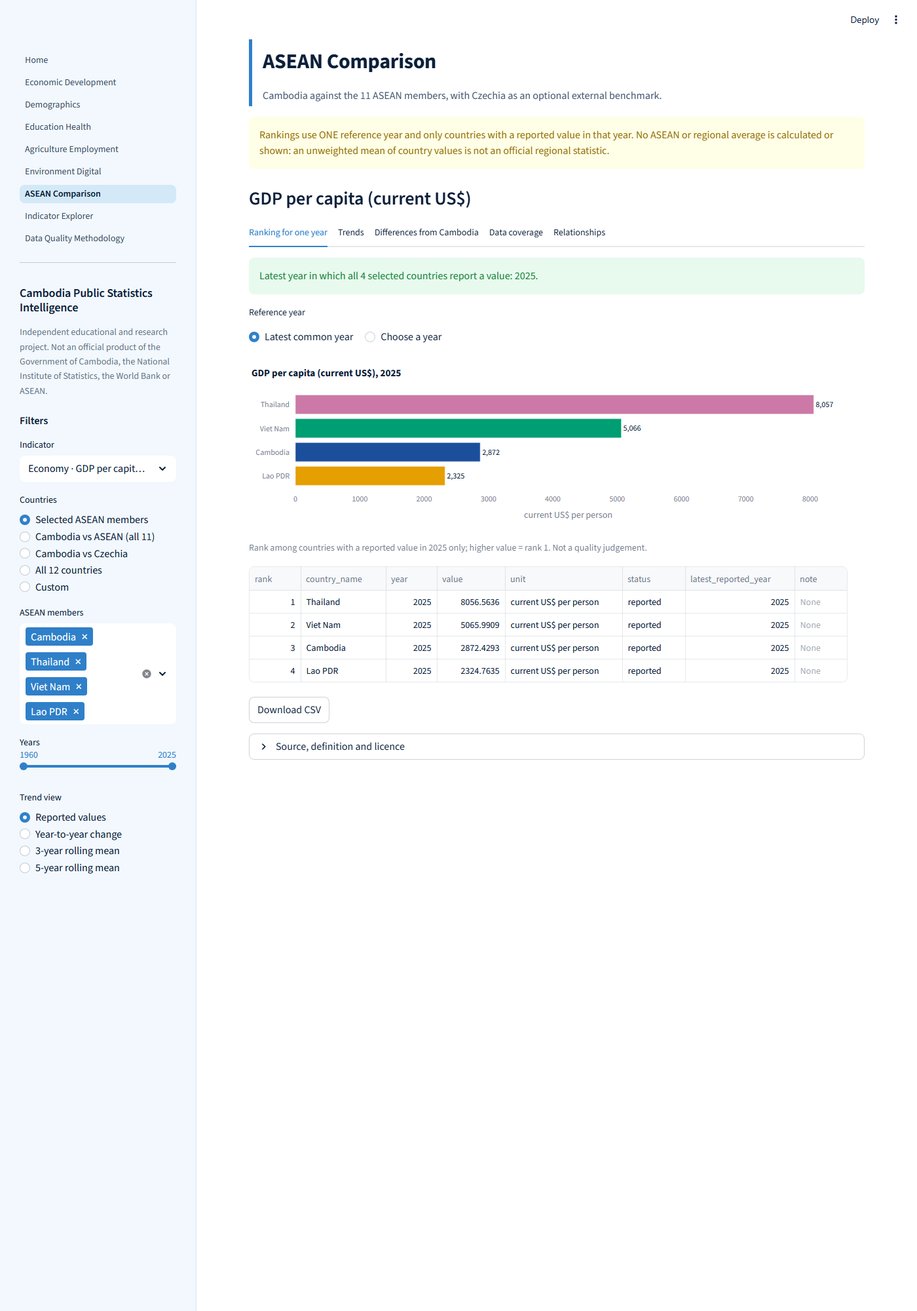
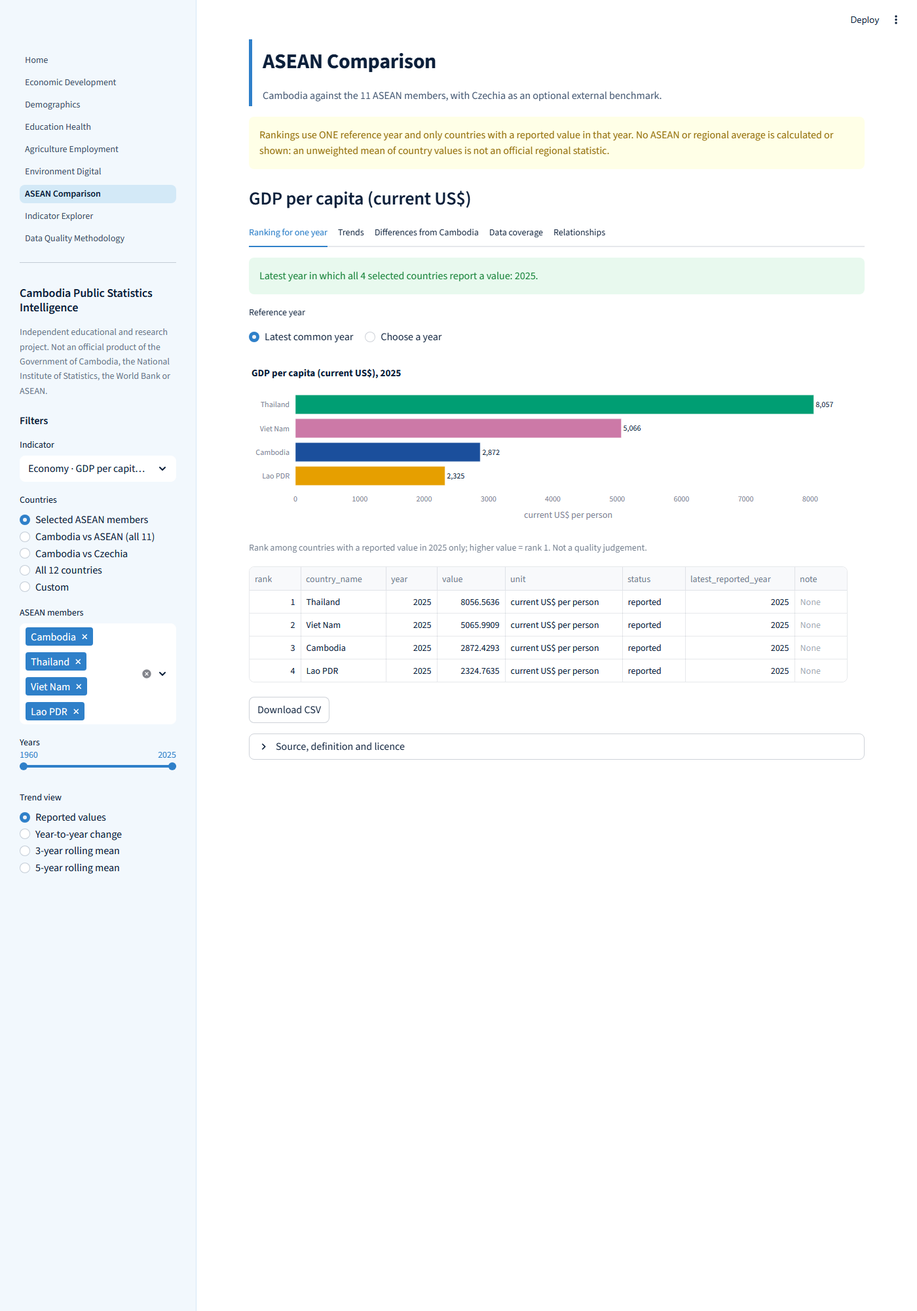
Licence audit, attribution and final dashboard review
Record the World Bank dataset-terms audit for all 25 indicators (no licence
field and no stated restriction in the API metadata; 18 third-party providers
not separately reviewed; no data redistributed), add per-indicator attribution
and docs/indicator_sources.md, add a CSV download on the overview page, capture
all nine pages plus 500 px narrow-layout screenshots, and state CI as NOT VERIFIED.

Changed region(s): [[0.3071, 0.279, 0.8907, 0.341]]

diff --git a/scripts/generate_data_dictionary.py b/scripts/generate_data_dictionary.py
@@ -33,6 +33,22 @@ def main() -> None:
             out.append(f"| {name} | {typ} | {null} |")
         out.append("")
     (ROOT / "docs" / "data_dictionary.md").write_text("\n".join(out), encoding="utf-8")
+    src = [
+        "# Indicator sources and attribution", "",
+        "Generated from the `indicators` table (World Bank API metadata retrieved by the pipeline). Attribution follows the "
+        "World Bank Dataset Terms format: *The World Bank: Dataset name: Data source (if known)*. The API metadata has no "
+        "licence field, and no indicator's metadata states a different licence or restriction.", "",
+        "| Code | Indicator (official API name) | Original data source (API `sourceOrganization`) | Licence status |",
+        "|---|---|---|---|",
+    ]
+    rows = con.execute(
+        "SELECT indicator_code, indicator_name, source_organization, licence FROM indicators ORDER BY domain, indicator_code"
+    ).fetchall()
+    for code, name, org, lic in rows:
+        status = "CC BY 4.0, owner-verified" if "verified by the project owner" in lic else "CC BY 4.0 default, no exception stated"
+        text = " ".join((org or "not stated").split()).replace("|", "/")
+        src.append(f"| `{code}` | {name} | {text} | {status} |")
+    (ROOT / "docs" / "indicator_sources.md").write_text("\n".join(src) + "\n", encoding="utf-8")
     print("written")
 
 

diff --git a/src/cpsi/transformation/observations.py b/src/cpsi/transformation/observations.py
@@ -13,12 +13,17 @@ SOURCE_NAME = "World Development Indicators"
 SOURCE_ORG_LABEL = "World Bank"
 INDICATOR_URL = "https://data.worldbank.org/indicator/{code}"
 LICENCE_DEFAULT = (
-    "CC BY 4.0 (World Bank Open Data default). Third-party exceptions are possible: see source_organization."
+    "CC BY 4.0: the World Bank Dataset Terms default for World Bank-produced open datasets. Audit 2026-10-31: the "
+    "indicator metadata (API fields id, name, source, sourceNote, sourceOrganization, topics, unit) states no "
+    "different licence or restriction. The original data provider is third-party (see source_organization); that "
+    "provider's own terms were not separately reviewed."
 )
 LICENCE_CO2 = (
-    "CC BY 4.0 as displayed on the World Bank indicator page (reported by the project owner on 2026-10-31; "
-    "not independently re-read by the pipeline). Underlying data: EDGAR (JRC) and IEA."
+    "CC BY 4.0, individually verified by the project owner on the World Bank indicator page (2026-10-31); the API "
+    "metadata states no different licence or restriction. Original data: EDGAR (JRC, European Commission) and IEA, "
+    "third-party providers whose own terms were not separately reviewed."
 )
+ATTRIBUTION_FORMAT = "The World Bank: World Development Indicators: {org}"
 
 
 class ValidationError(Exception):

diff --git a/app/Home.py b/app/Home.py
@@ -62,6 +62,11 @@ with left:
     f, ylabel, how = transformed(d, code, cs, "Reported values", d.start, d.end)
     st.plotly_chart(charts.trend_fig(f, {c: d.cname(c) for c in cs}, ylabel, d.name(code)), width="stretch")
     st.caption("Breaks in a line are years with no reported value. " + (d.ind(code).notes or ""))
+    ui.csv_button(
+        d.slice([code], cs, d.start, d.end)[["country_code", "indicator_code", "year", "value", "unit", "observation_status",
+                                              "source_name", "retrieved_at"]],
+        f"{code}_overview.csv", key="home_csv",
+    )
     ui.source_box(d, code)
 with right:
     st.subheader("Statistical highlights")

diff --git a/app/components/ui.py b/app/components/ui.py
@@ -147,6 +147,8 @@ def source_box(d: data_mod.Data, code: str) -> None:
         st.markdown(f"Source: {r.source_name}, World Bank. Original data: {r.source_organization or 'not stated'}")
         st.markdown(f"[Indicator page]({r.source_url}) · Retrieved {pd.Timestamp(r.retrieved_at):%Y-%m-%d}")
         st.markdown(f"Licence: {r.licence}")
+        org = " ".join((r.source_organization or "not stated").split())
+        st.markdown(f"Attribution: *The World Bank: World Development Indicators: {org}*")
         if r.notes:
             st.info(r.notes)
         st.markdown(f"Definition: {r.definition}")

diff --git a/docs/indicator_sources.md b/docs/indicator_sources.md
@@ -1,0 +1,31 @@
+# Indicator sources and attribution
+
+Generated from the `indicators` table (World Bank API metadata retrieved by the pipeline). Attribution follows the World Bank Dataset Terms format: *The World Bank: Dataset name: Data source (if known)*. The API metadata has no licence field, and no indicator's metadata states a different licence or restriction.
+
+| Code | Indicator (official API name) | Original data source (API `sourceOrganization`) | Licence status |
+|---|---|---|---|
+| `AG.LND.AGRI.ZS` | Agricultural land (% of land area) | FAO electronic files and web site, Food and Agriculture Organization of the United Nations (FAO), publisher: Food and Agriculture Organization of the United Nations (FAO) | CC BY 4.0 default, no exception stated |
+| `AG.LND.ARBL.HA` | Arable land (hectares) | FAO electronic files and web site, Food and Agriculture Organization of the United Nations (FAO), publisher: Food and Agriculture Organization of the United Nations (FAO) | CC BY 4.0 default, no exception stated |
+| `NV.AGR.TOTL.ZS` | Agriculture, forestry, and fishing, value added (% of GDP) | Country official statistics, National Statistical Organizations and/or Central Banks; National Accounts data files, Organisation for Economic Co-operation and Development (OECD); Staff estimates, World Bank (WB) | CC BY 4.0 default, no exception stated |
+| `SL.AGR.EMPL.ZS` | Employment in agriculture (% of total employment) (modeled ILO estimate) | ILO Modelled Estimates database (ILOEST), International Labour Organization (ILO), uri: https://ilostat.ilo.org/data/bulk/, publisher: ILOSTAT, type: external database, date accessed: January 17, 2026 | CC BY 4.0 default, no exception stated |
+| `SL.UEM.TOTL.ZS` | Unemployment, total (% of total labor force) (modeled ILO estimate) | ILO Modelled Estimates database (ILOEST), International Labour Organization (ILO), uri: https://ilostat.ilo.org/data/bulk/, publisher: ILOSTAT, type: external database, date accessed: January 17, 2026 | CC BY 4.0 default, no exception stated |
+| `SP.POP.GROW` | Population growth (annual %) | World Population Prospects, United Nations (UN), note: Derived from total population, publisher: UN Population Division; Statistical databases and publications from national statistical offices, National Statistical Offices (NSOs), note: Derived from total population; Demographic Statistics, Eurostat (ESTAT), note: Derived from total population; Population and Vital Statistics Report (various years), United Nations (UN), note: Derived from total population, publisher: UN Statistical Division | CC BY 4.0 default, no exception stated |
+| `SP.POP.TOTL` | Population, total | World Population Prospects, United Nations (UN), uri: https://population.un.org/wpp/, publisher: UN Population Division; Statistical databases and publications from national statistical offices, National Statistical Offices (NSOs), uri: https://unstats.un.org/home/nso_sites/, publisher: National Statistical Offices; Eurostat: Demographic Statistics, Eurostat (ESTAT), uri: https://ec.europa.eu/eurostat/data/database?node_code=earn_ses_monthly, publisher: Eurostat; Population and Vital Statistics Report (various years), United Nations (UN), uri: https://unstats.un.org, publisher: UN Statistics Division | CC BY 4.0 default, no exception stated |
+| `SP.URB.TOTL.IN.ZS` | Urban population (% of total population) | World Urbanization Prospects, United Nations (UN), uri: https://population.un.org/wup/, note: United Nations Population Division's World Urbanization Prospects, National definitions, publisher: UN Population Division | CC BY 4.0 default, no exception stated |
+| `FP.CPI.TOTL.ZG` | Inflation, consumer prices (annual %) | International Financial Statistics database, International Monetary Fund (IMF) | CC BY 4.0 default, no exception stated |
+| `NE.EXP.GNFS.ZS` | Exports of goods and services (% of GDP) | Country official statistics, National Statistical Offices (NSOs); National Accounts data files, Central Banks; Staff estimates, World Bank (WB) | CC BY 4.0 default, no exception stated |
+| `NE.IMP.GNFS.ZS` | Imports of goods and services (% of GDP) | Country official statistics, National Statistical Offices (NSOs); National Accounts data files, Central Banks; Staff estimates, World Bank (WB) | CC BY 4.0 default, no exception stated |
+| `NY.GDP.MKTP.CD` | GDP (current US$) | Country official statistics, National Statistical Organizations and/or Central Banks; National Accounts data files, Organisation for Economic Co-operation and Development (OECD); Staff estimates, World Bank (WB) | CC BY 4.0 default, no exception stated |
+| `NY.GDP.MKTP.KD.ZG` | GDP growth (annual %) | Country official statistics, National Statistical Organizations and/or Central Banks; National Accounts data files, Organisation for Economic Co-operation and Development (OECD); Staff estimates, World Bank (WB) | CC BY 4.0 default, no exception stated |
+| `NY.GDP.PCAP.CD` | GDP per capita (current US$) | Country official statistics, National Statistical Organizations and/or Central Banks; National Accounts data files, Organisation for Economic Co-operation and Development (OECD); Staff estimates, World Bank (WB) | CC BY 4.0 default, no exception stated |
+| `SE.ADT.LITR.ZS` | Literacy rate, adult total (% of people ages 15 and above) | Data API, UN Educational, Scientific and Cultural Organization (UNESCO), uri: https://databrowser.uis.unesco.org/resources, note: The data are obtained through the UIS API. Detailed documentation is available at: https://api.uis.unesco.org/api/public/documentation/, publisher: UNESCO Institute for Statistics (UIS), type: Excel (bulk file), date accessed: 2026-03-19, date published: 2026-02 | CC BY 4.0 default, no exception stated |
+| `SE.PRM.ENRR` | School enrollment, primary (% gross) | Data API, UN Educational, Scientific and Cultural Organization (UNESCO), uri: https://databrowser.uis.unesco.org/resources, note: The data are obtained through the UIS API. Detailed documentation is available at: https://api.uis.unesco.org/api/public/documentation/, publisher: UNESCO Institute for Statistics (UIS), type: Bulk file (csv), date accessed: 2026-03-19, date published: 2026-02 | CC BY 4.0 default, no exception stated |
+| `SE.SEC.ENRR` | School enrollment, secondary (% gross) | Data API, UN Educational, Scientific and Cultural Organization (UNESCO), uri: https://databrowser.uis.unesco.org/resources, note: The data are obtained through the UIS API. Detailed documentation is available at: https://api.uis.unesco.org/api/public/documentation/, publisher: UNESCO Institute for Statistics (UIS), type: Bulk file (csv), date accessed: 2026-03-19, date published: 2026-02 | CC BY 4.0 default, no exception stated |
+| `EG.ELC.ACCS.ZS` | Access to electricity (% of population) | SDG 7.1.1 Electrification Dataset, World Bank (WB), uri: https://trackingsdg7.esmap.org/downloads, note: Data is downloaded from ESMAP website. Data is released when a new Tracking SDG7 report is released., publisher: World Bank (WB), date accessed: 2024-05-16, date published: 2023 | CC BY 4.0 default, no exception stated |
+| `EG.FEC.RNEW.ZS` | Renewable energy consumption (% of total final energy consumption) | IEA Energy Statistics Data Browser, International Energy Agency (IEA), uri: https://www.iea.org/data-and-statistics/data-tools/energy-statistics-data-browser, publisher: International Energy Agency (IEA), date accessed: 2025-03-25 | CC BY 4.0 default, no exception stated |
+| `EN.GHG.CO2.PC.CE.AR5` | Carbon dioxide (CO2) emissions excluding LULUCF per capita (t CO2e/capita) | EDGAR (Emissions Database for Global Atmospheric Research) Community GHG Database, Joint Research Centre (JRC) - European Commission, uri: https://edgar.jrc.ec.europa.eu/dataset_ghg2024, publisher: JRC European Commission, date published: 2024; International Energy Agency (IEA), uri: https://edgar.jrc.ec.europa.eu/dataset_ghg2024, publisher: JRC European Commission, date published: 2024 | CC BY 4.0, owner-verified |
+| `IT.NET.USER.ZS` | Individuals using the Internet (% of population) | World Telecommunication/ICT Indicators Database, International Telecommunication Union (ITU), uri: https://datahub.itu.int/ | CC BY 4.0 default, no exception stated |
+| `SH.DYN.MORT` | Mortality rate, under-5 (per 1,000 live births) | UN Inter-agency Group for Child Mortality Estimation, UN Children's Fund (UNICEF), uri: www.childmortality.org, publisher: UNICEF, WHO, World Bank, United Nations Population Division; World Health Organization (WHO), uri: www.childmortality.org, note: UN Inter-agency Group for Child Mortality Estimation; World Bank (WB), uri: www.childmortality.org, note: UN Inter-agency Group for Child Mortality Estimation; United Nations (UN), uri: www.childmortality.org, note: UN Inter-agency Group for Child Mortality Estimation, publisher: UN Population Division | CC BY 4.0 default, no exception stated |
+| `SH.STA.MMRT` | Maternal mortality ratio (modeled estimate, per 100,000 live births) | Trends in Maternal Mortality, World Health Organization (WHO), uri: https://www.who.int/news/item/23-02-2023-a-woman-dies-every-two-minutes-due-to-pregnancy-or-childbirth--un-agencies; UN Children's Fund (UNICEF), note: Trends in Maternal Mortality; UN Population Fund (UNFPA), note: Trends in Maternal Mortality; World Bank Group (WBG), note: Trends in Maternal Mortality | CC BY 4.0 default, no exception stated |
+| `SH.XPD.CHEX.GD.ZS` | Current health expenditure (% of GDP) | Global Health Expenditure Database, updated December 12th, 2025, World Health Organization (WHO), uri: https://apps.who.int/nha/database | CC BY 4.0 default, no exception stated |
+| `SP.DYN.LE00.IN` | Life expectancy at birth, total (years) | World Population Prospects, United Nations (UN), uri: UN Population Division; Statistical databases and publications from national statistical offices, National Statistical Offices (NSOs), note: Derived from male and female life expectancy at birth from sources such as statistical databases and publications from national statistical offices.; Demographic Statistics, Eurostat (ESTAT), note: Derived from male and female life expectancy at birth from sources such as Eurostat: Demographic Statistics. | CC BY 4.0 default, no exception stated |

diff --git a/README.md b/README.md
@@ -14,7 +14,7 @@ Public development statistics are spread across portals with different structure
 
 ## 6. Data sources
 
-Only the **World Bank Indicators API v2** (World Development Indicators) is used. WHO GHO (API returned HTTP 500 on 2026-10-31), ASEANstats (token required), UNData and FAOSTAT are deferred ([docs/NEXT_STEPS.md](docs/NEXT_STEPS.md)). Retrieval: 51 API calls on 2026-10-31, 19,800 rows. Licences and attribution: [docs/data_sources.md](docs/data_sources.md). **Licence caveat:** the World Bank default (CC BY 4.0) and, for the CO2 series, the owner's reading of the indicator page are recorded; the pipeline did not independently re-read licence pages, and third-party terms may apply to individual series.
+Only the **World Bank Indicators API v2** (World Development Indicators) is used. WHO GHO (API returned HTTP 500 on 2026-10-31), ASEANstats (token required), UNData and FAOSTAT are deferred ([docs/NEXT_STEPS.md](docs/NEXT_STEPS.md)). Retrieval: 51 API calls on 2026-10-31, 19,800 rows. Licences and attribution: [docs/data_sources.md](docs/data_sources.md). **Licence audit (2026-10-31):** the World Bank Dataset Terms make CC BY 4.0 the default; the indicator metadata for all 25 series states no different licence or restriction, and the CO2 series was individually verified as CC BY 4.0 by the project owner. 18 series are compiled by third-party international organisations whose own terms were not separately reviewed, so **no statistical data are redistributed in this repository** (the database and cache are generated locally from the public API). Details and per-indicator attribution: [docs/data_sources.md](docs/data_sources.md), [docs/indicator_sources.md](docs/indicator_sources.md).
 
 ## 7. Indicators (25, six domains)
 
@@ -38,13 +38,21 @@ Descriptive statistics on reported values with n shown; annual change only betwe
 
 ## 11. Screenshots
 
-Captured from the running app with headless Edge (some pages need a long render budget; several screenshots were retaken because the first capture showed a loading skeleton or a half-rendered page).
+All nine pages, captured from the running app with headless Edge at 1400 px width. Several captures were retaken because the first attempt showed a loading skeleton or a half-rendered page.
 
-| | |
-|---|---|
-| ![Home](reports/figures/home.png) | ![Economic](reports/figures/economic.png) |
-| ![ASEAN](reports/figures/asean.png) | ![Quality](reports/figures/quality.png) |
-| ![Explorer](reports/figures/explorer.png) | |
+| 1 National Overview | 2 Economic Development | 3 Demographics |
+|---|---|---|
+| ![Home](reports/figures/home.png) | ![Economic](reports/figures/economic.png) | ![Demographics](reports/figures/demographics.png) |
+
+| 4 Education and Health | 5 Agriculture and Employment | 6 Environment and Digital |
+|---|---|---|
+| ![Education and Health](reports/figures/education_health.png) | ![Agriculture](reports/figures/agriculture.png) | ![Environment](reports/figures/environment.png) |
+
+| 7 ASEAN Comparison | 8 Indicator Explorer | 9 Data Quality and Methodology |
+|---|---|---|
+| ![ASEAN](reports/figures/asean.png) | ![Explorer](reports/figures/explorer.png) | ![Quality](reports/figures/quality.png) |
+
+**Narrow-screen check (partial).** Headless Edge cannot render below about 500 px, so the narrow layout was checked at **500 px**, not the requested 390 px (an attempt to embed the app in a 390 px frame failed). At 500 px the KPI cards stack in one column, the sidebar collapses, tabs and tables scroll, and nothing is clipped: [Home](reports/figures/narrow500_home.png), [ASEAN](reports/figures/narrow500_asean.png). 390 px and real devices are not verified.
 
 ## 12-14. Install, run, refresh
 
@@ -61,7 +69,7 @@ The cache, database and Parquet export are generated and git-ignored. No API key
 
 ## 15. Testing
 
-`python -m pytest -q` and `python -m ruff check .` (results are recorded in `reports/validation/`). Final run on this commit: **81 passed, Ruff clean.** Coverage: mocked-HTTP ingestion tests (pagination, retry, timeout, invalid indicator, empty response, malformed payloads); transformation, null/zero and duplicate handling; deterministic statistics fixtures with hand-computed expected values; DuckDB key and constraint enforcement; cross-checks of descriptive statistics, growth, correlation and the CSV export against independent SQL/NumPy on the real data; headless Streamlit tests that run every page and exercise filters, the empty-search state and the missing-database error. **Not tested:** the live API in CI (no integration tests yet), cross-browser rendering, mobile layout. **GitHub Actions has not been run** (the account is billing-locked), so the workflow is unverified.
+`python -m pytest -q` and `python -m ruff check .` (results are recorded in `reports/validation/`). Final run on this commit: **81 passed, Ruff clean.** Coverage: mocked-HTTP ingestion tests (pagination, retry, timeout, invalid indicator, empty response, malformed payloads); transformation, null/zero and duplicate handling; deterministic statistics fixtures with hand-computed expected values; DuckDB key and constraint enforcement; cross-checks of descriptive statistics, growth, correlation and the CSV export against independent SQL/NumPy on the real data; headless Streamlit tests that run every page and exercise filters, the empty-search state and the missing-database error. **Not tested:** the live API in CI (no integration tests yet), cross-browser rendering, mobile layout. **CI status: NOT VERIFIED.** GitHub Actions has not run for this repository (the owner's GitHub account has a billing restriction), so the workflow file in `.github/workflows/ci.yml` has never been executed and no CI result exists.
 
 ## 16. Findings from actual computations (World Bank data retrieved 2026-10-31)
 

diff --git a/docs/data_sources.md b/docs/data_sources.md
@@ -8,8 +8,29 @@
 | UNData (SDMX) | No | Future enhancement. |
 | FAOSTAT | No | Project 01 already covers agricultural production. |
 
-**Licence of the data.** World Bank Open Data is generally licensed CC BY 4.0, but individual series can carry third-party terms. Each indicator's original data provider is stored in the `indicators` table (`source_organization`). The CO2 series (`EN.GHG.CO2.PC.CE.AR5`) is compiled by EDGAR (JRC, European Commission) and IEA; CC BY 4.0 for it was reported from the World Bank indicator page by the project owner. The pipeline did not independently re-read these licence pages (they render only in a browser).
+## Licence audit (2026-10-31)
 
-**Suggested attribution.** World Bank, World Development Indicators, retrieved via the World Bank Indicators API (https://api.worldbank.org/v2/); processed by Cambodia Public Statistics Intelligence (independent project). Original providers per indicator are listed in the Indicator Explorer.
+**What the official terms say** (read on 2026-10-31):
 
-**Code licence and data licence are separate.** The project code is MIT-licensed. The statistical data keep their own licences and are not re-licensed. The repository does not commit the cache, the DuckDB file or the Parquet export.
+* World Bank *Terms of Use for Datasets* (https://www.worldbank.org/ext/en/legal/terms-conditions/datasets; page dated 2018-03-23): unless labelled otherwise, datasets are provided under **CC BY 4.0**. Some datasets and indicators may not be redistributed or reused without the consent of the original data provider, or carry different terms; "where applicable, these conditions are included in the dataset or indicator metadata". The page names no specific providers.
+* World Bank Data Catalog, *Data Access and Licensing* (https://datacatalog.worldbank.org/public-licenses): CC BY 4.0 is the default for datasets **produced by the World Bank itself**; many datasets are available under other labelled licences (ODbL, microdata research licence, licence specified externally, custom licence).
+
+**What the indicator metadata says.** The API returns seven metadata fields per indicator (`id`, `name`, `source`, `sourceNote`, `sourceOrganization`, `topics`, `unit`). There is **no licence field**. A text search of `sourceNote` and `sourceOrganization` for all 25 indicators for *licence, creative commons, CC BY, copyright, restrict, permission, proprietary, terms* found **no match**. So no indicator states a different licence or a third-party restriction in the metadata the pipeline retrieved.
+
+**Conclusion and its limits.**
+
+* The World Bank default, CC BY 4.0, is applied to all 25 indicators, because nothing in their metadata says otherwise. The CO2 series `EN.GHG.CO2.PC.CE.AR5` was **individually verified as CC BY 4.0 by the project owner** on the World Bank indicator page; this pipeline did not itself read that page (it is client-rendered).
+* **18 of the 25 series are named as compiled by international third-party organisations** (UN Population Division, IMF, ILO, FAO, UNESCO UIS, UNICEF/IGME, WHO, IEA, ITU, EDGAR/JRC; count made from the `sourceOrganization` text). The other 7 are national accounts (national statistical offices, central banks, OECD, World Bank staff estimates) and one World Bank ESMAP electrification series; those also rest on national and third-party inputs. See [indicator_sources.md](indicator_sources.md). The World Bank terms reserve the possibility of provider-specific terms; **those providers' own terms were not separately reviewed**.
+* Mitigation: the repository does **not** redistribute any statistical data. The DuckDB store, Parquet export and raw API cache are git-ignored and are re-created from the public World Bank API by `python scripts/run_pipeline.py`. The repository contains only code, configuration, documentation and aggregate summary reports (counts and coverage statistics, plus the few observations quoted in the README and reports as findings, with attribution).
+
+## Attribution
+
+Format required by the World Bank terms: *The World Bank: Dataset name: Data source (if known)*. This project uses:
+
+> The World Bank: World Development Indicators: *[original data source of the indicator, per [indicator_sources.md](indicator_sources.md)]*; retrieved via the World Bank Indicators API (https://api.worldbank.org/v2/) on 2026-10-31; processed by Cambodia Public Statistics Intelligence (independent project; changes: standardised units, derived growth/rolling statistics labelled as such).
+
+The application prints this line per indicator in "Source, definition and licence". Original providers are in the `indicators` table (`source_organization`).
+
+## Code licence and data licence are separate
+
+The project **code** is MIT-licensed ([LICENSE](../LICENSE)). The statistical **data** keep their own licences and are not re-licensed under MIT.

diff --git a/docs/NEXT_STEPS.md b/docs/NEXT_STEPS.md
@@ -30,3 +30,10 @@ Nothing below is implemented. Each item lists why it is useful, the data and lib
 **12. Public deployment and automated updates.** Streamlit Community Cloud or a container; a scheduled refresh in CI (needs the GitHub billing lock resolved) with a data-diff report and a licence re-check.
 
 **13. Visual regression and accessibility testing** of the dashboard (screenshots are currently taken manually with headless Edge).
+
+## Added at publication review (2026-10-31)
+**14. Provider-level licence review.** *Why:* 18 of the 25 series are compiled by third-party organisations (UN, IMF, ILO, FAO, UNESCO, UNICEF, WHO, IEA, ITU, EDGAR/JRC) whose own terms were not separately reviewed; the repository therefore redistributes no data. *Approach:* read each provider's terms, record them in `docs/indicator_sources.md`, and only then consider publishing a small sample extract. *Testing:* a test that fails if the generated `docs/indicator_sources.md` is out of date with the `indicators` table.
+
+**15. Verify CI.** The workflow has never run (GitHub billing restriction on the owner's account). After it is resolved, run it, record the real result, and decide whether to add the store build (needs network) as a scheduled job.
+
+**16. Real-device and 390 px layout check, and browser-level CSV download tests** (headless Edge cannot go below ~500 px; AppTest cannot click download buttons).

diff --git a/docs/limitations.md b/docs/limitations.md
@@ -9,5 +9,6 @@
 * **Revisions.** WDI values are revised. The data were retrieved on the date shown on the home page; a later refresh can change values.
 * **Correlations** are exploratory, on non-independent country-year pairs, with no controls and no causal interpretation.
 * **No regional aggregates** are shown; no provincial or sub-national data are included; no map.
-* **Licences** for the World Bank series were taken from the World Bank default and, for the CO2 series, from the owner's reading of the indicator page; they were not independently re-read by the pipeline. Third-party exceptions may apply to individual series.
+* **Licences.** CC BY 4.0 (World Bank default) is applied because no indicator's metadata states otherwise; the CO2 series was individually verified by the owner. 18 series come from third-party international organisations whose own terms were not separately reviewed, which is why no data are redistributed in the repository. See `docs/data_sources.md`.
 * This is not an official product of the Government of Cambodia, the National Institute of Statistics, the World Bank or ASEAN.
+* **Responsive layout** was checked only at 500 px in headless Edge (not 390 px, not real devices), and only on desktop browsers' engine (Chromium/Edge). CSV download clicks were not exercised in a browser; the data behind each button are tested.
